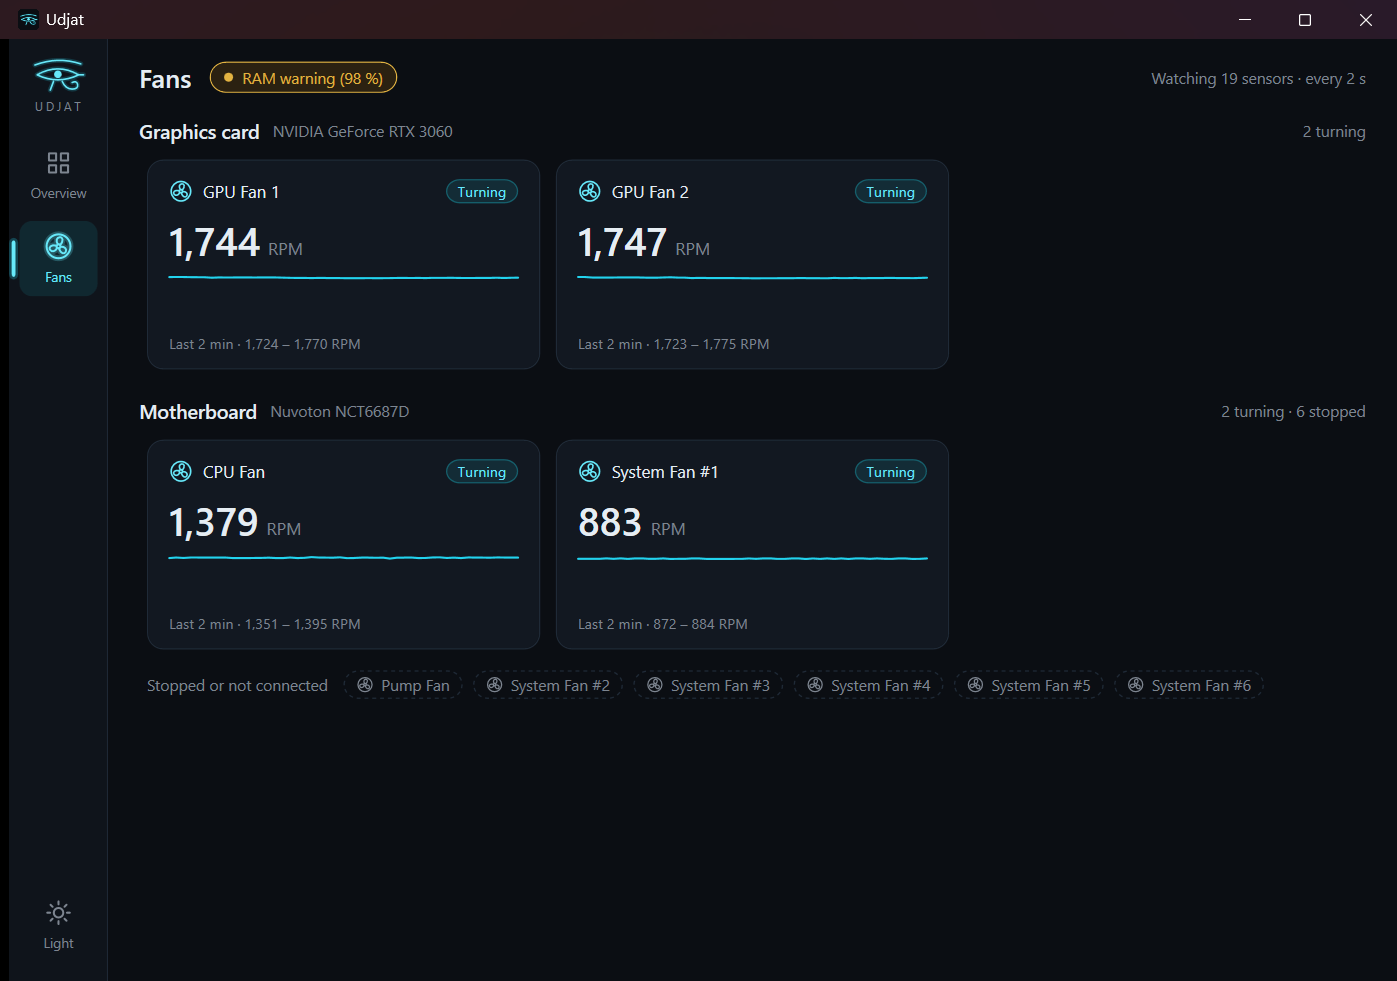
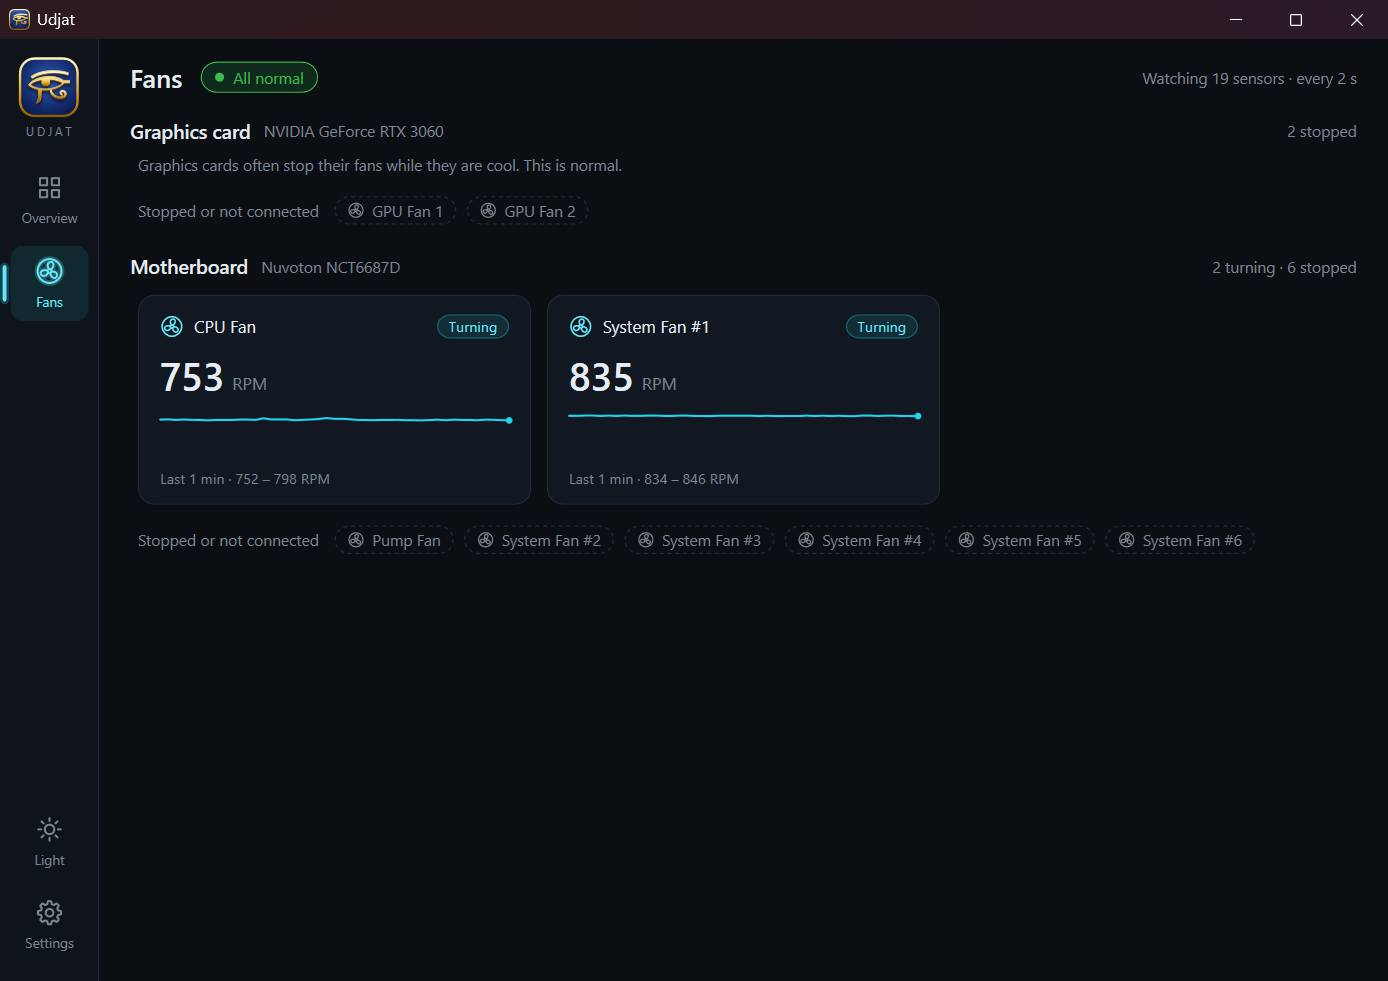
Refresh the screenshots for the new look and record the publication
New icon, charts with a grid, the Celsius/Fahrenheit setting; a note in
CLAUDE.md and docs/DECISIONS.md about publishing the repository.

diff --git a/CLAUDE.md b/CLAUDE.md
@@ -54,6 +54,8 @@ See docs/ARCHITECTURE.md (draft). Items marked [verify] must be confirmed before
 - Build and run the tests after every step. Warnings are errors.
 - Status: `src/Udjat.Core` (Monitoring core) and `src/Udjat.Windows` (sensor source, docs/SENSORS.md) are done and tested (75 tests). `tools/SensorProbe` shows what Udjat reads on a PC; run it elevated (it needs administrator rights, so ask the owner before launching it). Settings, alerts, auto-protect and the email and Telegram channels are built and tested (240 tests; docs/ALERTS.md). The WPF app's skeleton (tray, toast, sound, single instance, --exit, --data-dir), secrets and autostart are built and tested (317 tests, 2 opt-in); the main window is built (docs/UI.md): side menu, Overview, Fans, Settings (364 tests, 2 opt-in), both themes. Packaging is written (docs/DECISIONS.md, 2026-10-30): the .ico, THIRD-PARTY-NOTICES and licenses, a self-contained publish that was smoke-tested, installer/Udjat.iss and tools/build-installer.ps1; the installer is compiled (artifacts/Udjat-Setup-0.1.0.exe, 52.6 MB, Inno Setup 6.7.3, already installed per-user on the owner's PC) and its silent install, first run (the app makes the scheduled task), install over a running app, and silent uninstall were tested on the owner's PC on 2026-10-30 (30 checks passed, machine left as it was). Not tested: the installer's wizard pages and the uninstall question about settings and passwords (both need a person at the screen). The Opus security and code review is done (docs/REVIEW.md, 2026-10-30) and every finding is fixed (419 tests, 2 opt-in): autostart only from Program Files (S1), auto-protect closes only the user's own programs (S3), settings and log in %ProgramData%\Udjat with administrator-only permissions (S2), single-instance squatting (S4), the Test button (S5), the settings page's logic moved to Core with tests (Q1). The installer was rebuilt and retested on the owner's PC on 2026-10-30 (40 checks passed, machine left as it was): the app, elevated, made C:\ProgramData\Udjat owned by Administrators with SYSTEM and Administrators full control and Users read only, wrote nothing to AppData, made its task only because it ran from Program Files, and the window icon comes from the exe. The old %AppData% settings are not migrated. The owner then ran the real wizard: its "Start Udjat now" step failed with error 740 (Setup started Udjat without administrator rights); fixed with the runascurrentuser flag and the installer rebuilt (docs/DECISIONS.md), waiting for the owner to run the new one. Still not tested: the rest of the wizard, the uninstall question (need a person), real email and Telegram, and the Sound test. After that the owner asked for three changes (2026-10-30, 459 tests): the gold lapis Eye of Horus icon (window, tray, .ico; docs/UI.md), charts on a grid with axis numbers and time (`ChartScale`), and a Celsius or Fahrenheit setting. Built and photographed in the running app (Celsius and Fahrenheit, dark and light), not yet in a rebuilt installer; the README screenshots are still the old look. The Pharaonic background pattern was postponed by the owner. Next: rebuild the installer, retest it, refresh the screenshots, then decide on code signing. Running the app needs the owner to approve a UAC prompt; turning on autostart creates a real scheduled task, so ask first.
 
+- Published (2026-10-30): https://github.com/Salah-Elsayed404/Udjat, public, branch main. Commits use the GitHub noreply email, not the owner's real one. `artifacts/` is git-ignored; the installer goes on GitHub as a Release asset, never in the repository.
+
 ## Plan
 1. Requirements Q&A (Opus) - done
 2. Architecture + sensor-reading approach (Opus) - draft done

diff --git a/docs/DECISIONS.md b/docs/DECISIONS.md
@@ -129,4 +129,6 @@ A short log of design decisions and why they were made.
 | 2026-10-30 | Charts on the Overview have a grid, numbers on both sides and a time axis; `ChartScale` in Core picks the round numbers | The owner said the bare lines were not understandable. The scale logic is pure so it is tested; the Fans page's small cards keep the bare line |
 | 2026-10-30 | Celsius or Fahrenheit is a display setting: the file, the monitor and the limits stay in Celsius | Changing a unit must never change what a limit means, and the monitor and the tests need one unit. Switching the unit converts the boxes on the Alerts tab; saving converts them back, rounded to three places |
 | 2026-10-30 | No Pharaonic background pattern yet | Four ideas were shown; the owner said to leave it and come back later |
+| 2026-10-30 | Udjat is published as a public GitHub repository (Salah-Elsayed404/Udjat); commits use the GitHub noreply email; `AGENTS.md`, an old copy of `CLAUDE.md`, was removed | Open source and a portfolio project from the start. The real email would be readable by anyone from the history. A stale copy of the project notes could mislead a reader; `CLAUDE.md` is the one that is kept up to date |
+| 2026-10-30 | Before publishing, the project was scanned for secrets and personal data (none found); the sample Telegram token in the tests was replaced by an obviously fake one | A real-looking token in a public repository can trigger secret scanners and confuse readers, and git history cannot be cleaned afterwards without rewriting it |
 

diff --git a/README.md b/README.md
@@ -57,7 +57,9 @@ and focuses on one job: alert you when something gets too hot.
 |---|---|
 | ![The Fans page](docs/screenshots/fans-dark.png) | ![The Alerts tab of Settings, just after saving](docs/screenshots/settings-alerts.png) |
 
-![The Channels tab of Settings, light theme](docs/screenshots/settings-channels-light.png)
+| Settings: channels (light theme) | Settings: general, with the temperature unit |
+|---|---|
+| ![The Channels tab of Settings, light theme](docs/screenshots/settings-channels-light.png) | ![The General tab of Settings](docs/screenshots/settings-general.png) |
 
 ## Platform
 Windows (v1). So far Udjat has been tried on two PCs with NVIDIA graphics cards (one of them has a GeForce RTX 3060 and an Intel Core i5-13400F).
